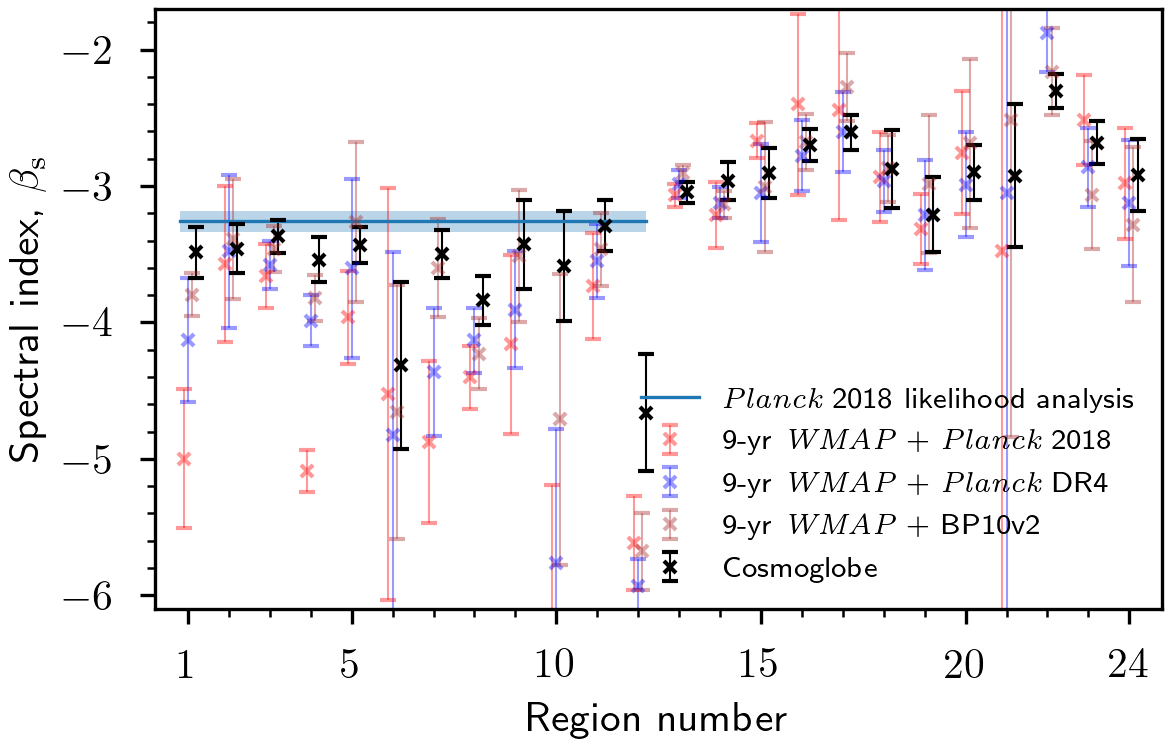
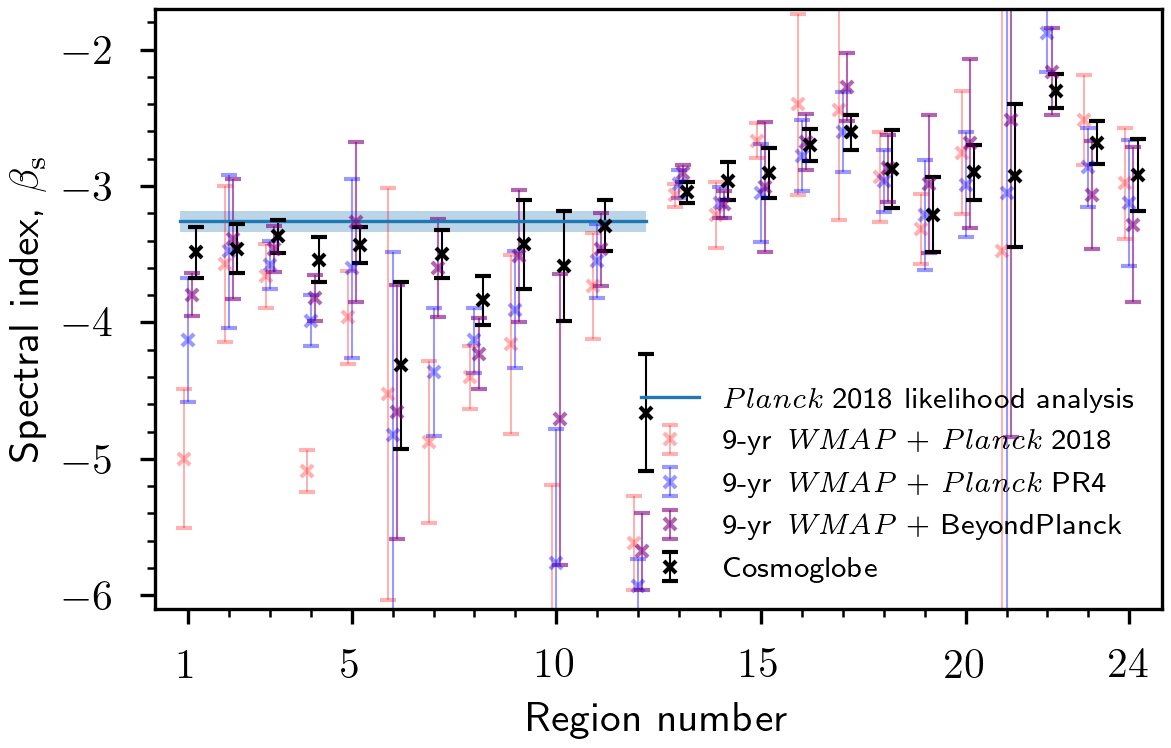
updated fig 7 and added text on tt-plot

diff --git a/WMAP/03_synch/main.tex b/WMAP/03_synch/main.tex
@@ -361,8 +361,7 @@ As the scale of instrumental residuals have been reduced to below the white nois
 	\includegraphics[width=0.9\textwidth]{figures/CG_DR1_residuals.pdf}
 	\end{center}
 	\caption{Residuals with respect to the \cosmoglobe\ DR1 sky model evaluated at $5^\circ$, with common colorscale of $\pm\,5\,\mathrm{\mu K}$. \cosmoglobe\ maps are labeled CG, \Planck\ 2018 and \npipe\ maps are labeled PR3 and PR4, and the legacy \WMAPnine\ maps are labeled \WMAP.
-
-	Remove PR3, reorganize a bit. Perhaps Stokes Q, then Stokes U
+	  Remove PR3, reorganize a bit. Perhaps Stokes Q, then Stokes U
 	}
 	\label{fig:cg_residuals}
 \end{figure*}
@@ -447,11 +446,11 @@ A fundamental challenge in spectral index estimation is due to the fact that eve
 
 In order to test for and mitigate these effects, we perform two approaches, a T-T plot analysis in Sect.~\ref{sec:tt_plot} and a Gibbs sampling analysis using \commanderone\ in Sect.~\ref{sec:comm1}. Sect.~\ref{sec:tt_plot} focuses on pairs of channels to better isolate potential unmodeled systematic effects, while Sect.~\ref{sec:comm1} uses all \WMAP\ and LFI channels plus \Planck\ 353\,GHz to maximize the joint statistical weight of all available data.
 
-\subsection{T-T plot method}
+\subsection{T-T plot analysis}
 \label{sec:tt_plot}
 
-As pointed out in \citet{wehus:2013}, unmodeled instrumental effects, including polarization angle mismatch between detectors and  elliptical beams,  can induce a polarization angle-dependent spectral index that is especially prominent in point sources.
-These effects can often be identified by performing analysis as a function of polarization angle. As both \WMAP\ and \Planck\ have asymmetric beam responses, this effect has long been noticed in the data, contaminating spectral index estimates. Performing a ``temperature-temperature'' (T-T) analysis as a function of polarizatoin angle, as discussed in Sect.~\ref{sec:tt_plot} \textcolor{red}{(this section?)}, shows the magnitude of this effect in the \cosmoglobe, \WMAPnine, and PR4 data.
+As pointed out in \citet{wehus:2013}, unmodeled instrumental effects, including polarization angle mismatch between detectors and  elliptical beams, can induce a polarization angle-dependent spectral index that is especially prominent in point sources.
+These effects can often be identified by performing analysis as a function of polarization angle. As both \WMAP\ and \Planck\ have asymmetric beam responses, this effect has long been noticed in the data, contaminating spectral index estimates. Performing a ``temperature-temperature'' (T-T) analysis as a function of polarization angle, shows the magnitude of this effect in the \cosmoglobe, \WMAPnine, and \Planck\ PR4 data.
 
 
 \begin{figure}
@@ -462,8 +461,10 @@ These effects can often be identified by performing analysis as a function of po
         \label{fig:regions}
 \end{figure}
 
+\subsubsection{Method}
+\label{sec:tt_plot_method}
 
-Following \citet{fuskeland2014} and \citet{fuskeland:2019}, we apply linear regression via the T-T (``temperature-temperature'') \textcolor{red}{<- repetition} plot method, in which spectral indices can be estimated over extended regions with approxiately constant spectral indices. In this approach, our data model for two frequencies is
+Following \citet{fuskeland2014} and \citet{fuskeland:2019}, we apply linear regression via the T-T plot method, in which spectral indices can be estimated over extended regions {\red with approxmiately constant spectral indices}. In this approach, our data model for two frequencies is
 \begin{equation}
 	\boldsymbol m_\nu = \boldsymbol m_{\nu_0}\left(\frac\nu{\nu_0}\right)^\beta+o_\nu+\boldsymbol n_\nu ,
 \end{equation}
@@ -474,10 +475,10 @@ where $\boldsymbol m_\nu$ is a spatially varying amplitude map, $\nu_0$ is the r
 	\Rightarrow
 	\beta_{s,p}=\frac{\ln(m_{\nu_1,p}/m_{\nu_2,p})}{\ln(\nu_1/\nu_2)}.
 \end{equation}
-The standard T-T plot method computes performs a linear regression $\boldsymbol m_{\nu_1}=a\boldsymbol m_{\nu_2}+b$, and associates $\beta_s$ with $\ln a/\ln(\nu_1/\nu_2)$. More care must be taken when the noise amplitudes in both maps are comparable, so we adopt the effective variance method of \citet{orear1982} as implemented by \citet{fuskeland2014}.
+The standard T-T plot method performs a linear regression $\boldsymbol m_{\nu_1}=a\boldsymbol m_{\nu_2}+b$, and associates $\beta_s$ with $\ln a/\ln(\nu_1/\nu_2)$. More care must be taken when the noise amplitudes in both maps are comparable, so we adopt the effective variance method of \citet{orear1982} as implemented by \citet{fuskeland2014}.
 
 For the T-T plot  analysis, we focus exclusively on bands between 23 and 33\,GHz. As in \citet{fuskeland2014}, we use the \WMAP\ \K\ and \Ka\ band Stokes $Q$ and $U$ parameter maps at $23$\,GHz and $33$\,GHz. The respective effective frequencies used are $22.45$\,GHz and $32.64$\,GHz. The maps originally at a \healpix\ pixelization of $N_\textrm{side}=512$ are downgraded to $N_\textrm{side}=64$ and smoothed to a common resolution of $1^\circ$ FWHM.
-The \Planck\ data products used are the $30$\,GHz Stokes $Q$ and $U$ maps, with an effective frequency of $28.4$\,GHz. {\red also mention \BP\ products, if we choose to show them.} The \cosmoglobe\ (PR4) products are natively at $N_\textrm{side}=512$ (1024), but as for the \WMAP\ products, the maps are downgraded to $N_\textrm{side}=64$ and smoothed to $1^\circ$ FWHM.  
+The \Planck\ data products used are the $30$\,GHz Stokes $Q$ and $U$ maps, with an effective frequency of $28.4$\,GHz. Both the \bp\ and \cosmoglobe\ products are natively at $N_\textrm{side}=512$, while for the \Planck\ PR4, it is 1024, but as for the \WMAP\ products, the maps are downgraded to $N_\textrm{side}=64$ and smoothed to $1^\circ$ FWHM.  
 
 
 
@@ -487,21 +488,34 @@ The \Planck\ data products used are the $30$\,GHz Stokes $Q$ and $U$ maps, with 
         \includegraphics[width=\linewidth]{figures/wmap23_plnpipe_ut_spectral_index_scatter_alphamean_1long.png}
         \includegraphics[width=\linewidth]{figures/wmap23_BP10v2_ut_spectral_index_scatter_alphamean_1long.png}
         \includegraphics[width=\linewidth]{figures/coswmap23_cos30_ut_spectral_index_scatter_alphamean_1long.png}
-        \caption{The spatial variation of the synchrotron spectral index, computed using T-T plot between the (from top to bottom) \WMAPnine\ 23\,GHz and \Planck\ 2018 30\,GHz, \WMAPnine\ 23\,GHz and \Planck\ DR4 30\,GHz, \WMAPnine\ 23\,GHz and \BP\ 30\,GHz, and \Cosmoglobe\ 23\,GHz and \Cosmoglobe\ 30\,GHz. The spectral index is inverse variance weighted over rotation angle, and in the \Cosmoglobe\ case also samples. {\red Fix style of maps. Also include uncertainty maps?}}
-        \label{fig:cos20_beta_map}
+        \caption{The spatial variation of the synchrotron spectral index, computed using T-T plot between the (from top to bottom) \WMAPnine\ 23\,GHz and \Planck\ 2018 30\,GHz, \WMAPnine\ 23\,GHz and \Planck\ DR4 30\,GHz, \WMAPnine\ 23\,GHz and \BP\ 30\,GHz, and \Cosmoglobe\ 23\,GHz and \Cosmoglobe\ 30\,GHz. The spectral index is inverse variance weighted over rotation angle, and in the \Cosmoglobe\ case also samples. {\red Fix style of maps.}}
+        \label{fig:TT_beta_maps}
 \end{figure}
 
-The uncertainty is calculated as the minimum of the uncertainties in each rotation angle, and region. As in the Fuskeland 2021 paper, an systematic uncertainty that takes into account the variation of $\beta$ over rotation angle; $[ \max(\beta_\alpha) - \min(\beta_\alpha) ] /2$ is added in quadrature to the statistical uncertainty.
-For the \Cosmoglobe\ analyses the standard deviation of the spectral indices for all samples is also added in quadrature to represent an additional systematic uncertainty.
-
-Much better propagation of uncertainties with a whole suite of maps.
+The uncertainty of the spectral indices is calculated as the minimum of the uncertainties in each rotation angle, and region. As in \citet{fuskeland:2019}, a systematic uncertainty that takes into account the variation of $\beta$ over rotation angle; $[ \max(\beta_\alpha) - \min(\beta_\alpha) ] /2$ is added in quadrature to the statistical uncertainty.
+For the \Cosmoglobe\ analyses we have a whole suite of maps represented by the individual samples instead of just one mean map. Here the standard deviation of the spectral indices of the samples is also added in quadrature to represent an additional systematic uncertainty. This enables us to have a better propagation of uncertainties from the maps to the final spectral indices.
 
 \begin{figure}
         \centering
         \includegraphics[width=\linewidth]{figures/cos30_region_beta_cosmoglobe_vs_wmap_all.png}
-        \caption{The synchrotron spectral index as a function of region number, computed using T-T plot between the 9-yr \WMAP\ 23\,GHz and \Planck\ 2018 30\,GHz (red), 9-yr \WMAP\ 23\,GHz and \Planck\ DR4 30\,GHz (blue), 9-yr \WMAP\ 23\,GHz and \BP\ 30\,GHz (brown), and \Cosmoglobe\ 23\,GHz and \Cosmoglobe\ 30\,GHz (black). The spectral index is inverse variance weighted over rotation angles, and samples. The horizontal line in the high latitude regions corresponds to the estimated spectral index values from the \Planck\ 2018 likelihood analysis. cite?? {\red [Figure is a bit crowded, will discuss what to to (either remove one dataset or clean up a bit using another style (color/markers, etc).]}}
+        \caption{The synchrotron spectral index as a function of region number, computed using T-T plot between the 9-yr \WMAP\ 23\,GHz and \Planck\ 2018 30\,GHz (red), 9-yr \WMAP\ 23\,GHz and \Planck\ DR4 30\,GHz (blue), 9-yr \WMAP\ 23\,GHz and \BP\ 30\,GHz (purple), and \Cosmoglobe\ 23\,GHz and \Cosmoglobe\ 30\,GHz (black). The spectral index is inverse variance weighted over rotation angles, and samples. The horizontal line in the high latitude regions corresponds to the estimated spectral index values from the \Planck\ 2018 likelihood analysis \citep{planck2016-l05}. }
         \label{fig:cos30_beta_region}
 \end{figure}
+
+\subsubsection{Results}
+\label{sec:tt_plot_results}
+
+We start by looking at the results from the T-T plot method applied on $K$-band (23\,GHz) and 30\,GHz maps. We apply the method to the 24 regions to see the spatial variation of the polarized synchrotron spectral index. The three top maps in Fig. \ref{fig:TT_beta_maps} shows the T-T plot method using \WMAPnine\ $K$-band and three incarnations of the \Planck\ 30\,GHz maps; the 2018 version, PR4 and \bp. The bottom map shows the results using the improved maps from the \cosmoglobe\ analysis; \cosmoglobe\ $K$-band and 30\,GHz. The spectral indices are inverse variance weighted over rotation angle, and in the \cosmoglobe\ case also samples. Some of the most bright point sources have been masked out using grey. We see an overall improvement in the results of the spectral index, from regions with clearly unphysical values in the top map represented by dark red and blue values, and then the colors gradually fade in the figures downwards. Note that the range in the plot is quite wide for spectral indices, and goes from -5 to -1. This improvement in the value of the spectral index, and therefore also the underlying data is especially prudent in the high galactic regions, but also region number 22 along the galactic plane has a very striking improvement.
+
+The same results are also shown in Fig. \ref{fig:cos30_beta_region}, here the spectral indices are plotted as a function of region number, from 1 to 24. The different datasets are shown in different colors, and with the same order as the four maps in Fig. \ref{fig:TT_beta_maps}. Here we have also included one sigma uncertainties as errorbars as described in Sect. \ref{sec:tt_plot_method}. Also present in this figure shown as a blue line is the estimated spectral index range for high galactic regions, in our case represented by regions 1-12, as forecasted by the likelihood analysis in \citet{planck2016-l05}, Figure 22. We see as the datasets evolve in time, they draw closer to this line.
+
+For a more detail study of each of the regions, we refer the reader to the Appendix, where we have shown the corresponding T-T scatterplots (Fig.\ref{fig:cos30_beta_bigscatter}) and the spectral index as a function of rotation angle (Fig.\ref{fig:cos30_beta_bigalpha}) for all 24 regions.
+
+As a second part of this T-T plot analysis we apply the method on K-band and Ka-band maps. For the \wmap\ data, this is previosly done in \citet{fuskeland2014}, so here we only present results using the new \cosmoglobe\ data. First, as a consistency check, in Fig.\ref{fig:cos30_xyplot} we plot the spectral indices for all 24 regions in a form of \cosmoglobe\ K/30\,GHz versus \cosmoglobe\ K/Ka. We see that for the regions in the north and south galactic spurs, and along the galactic plane (regions 13-24), there is a good agreement bewteen the spectral indices obtained by the two pairs of datasets. These are the regions with the highest signal to noise ratio.
+
+In Fig.\ref{fig:beta_map_K-Ka} the value of the spectral indices is shown for the 24 regions. We see here that the colors are even fainter than the \cosmoglobe\ K-band versus 30\,GHz values (the bottom figure in Fig. \ref{fig:TT_beta_maps}), meaning there are fewer outliers with respect to a standard value in the range around -3. This is especially visibly in the regions with lowest signal to noise, like regions 6, 8 and 12, at high latitude.
+
+{\red UF: Not sure we can talk about it like I do here, with ``right'' and ``wrong'' values of beta. But clearly, values above -2 and below -3.8 are unphysical, are they not, is this common knowledge? Might be rephrased a bit...}
 
 \begin{figure}
         \centering
@@ -512,6 +526,12 @@ The synchrotron spectral index computed using T-T plot with the \Cosmoglobe\ 23\
 \end{figure}
 
 
+\begin{figure}
+	\centering
+	\includegraphics[width=\linewidth]{figures/ut_spectral_index_scatter_alphamean_1.png}
+	\caption{The spatial variation of the synchrotron spectral index, computed using T-T plot between the \Cosmoglobe\ \WMAP\ \K- and \Ka-band. The spectral index is inverse variance weighted over rotation angle and samples. {\red Fix style of maps.}}
+        \label{fig:beta_map}
+\end{figure}
 
 
 %\begin{figure*}
@@ -534,8 +554,7 @@ The synchrotron spectral index computed using T-T plot with the \Cosmoglobe\ 23\
 
 
 
-We will also use Table 6, Figure (33)
-of Planck 2018 results IV Diffuse component separation
+%We will also use Table 6, Figure (33) of Planck 2018 results IV Diffuse component separation
 
 
 \subsection{Parametric component estimation}
@@ -556,10 +575,9 @@ At high Galactic latitudes (regions 1--12), there is good agreement between each
 \begin{figure}
 	\centering
 	\includegraphics[width=\columnwidth]{figures/compare_betas.pdf}
-	\caption{Spectral index from the \commanderone, T-T plots with \K/\Ka\ and \K/30, the QUIJOTE estimates, and the CLASS estimates
+	\caption{Spectral index from the \commanderone, T-T plots with \K /\Ka\ and \K/30, the QUIJOTE estimates, and the CLASS estimates
 	%
 	Remove TT K/30.
-
 	This is an improvment over the state-of-teh-art TT K/Ka
 	}
 	\label{fig:beta_comp}
@@ -649,34 +667,29 @@ A more persistent residual is found in the the Stokes $Q$ \Ka-band map. This fog
 
 
 
-\begin{figure}
-	\centering
-	\includegraphics[width=\linewidth]{figures/ut_spectral_index_scatter_alphamean_1.png}
-	\caption{The spatial variation of the synchrotron spectral index, computed using T-T plot between the \Cosmoglobe\ \WMAP\ \K- and \Ka-band. The spectral index is inverse variance weighted over rotation angle and samples. {\red Fix style of maps.}}
-        \label{fig:beta_map}
-\end{figure}
-
-\begin{figure}
-	\centering
-	\includegraphics[width=\linewidth]{figures/ut_uncert_scatter_alphamean_1.png}
-	\caption{The uncertainty of the synchrotron spectral index, computed using T-T plot between the \Cosmoglobe\ \WMAP\ \K- and \Ka-band. {\red Fix style of maps if we keep it.}}
-        \label{fig:uncert_map}
-\end{figure}
 
 
-\begin{figure}
-	\centering
-	\includegraphics[width=\linewidth]{figures/region_beta_cosmoglobe_vs_wmap.png}
-	\caption{The synchrotron spectral index, computed using T-T plot between the \Cosmoglobe\ \WMAP\ \K- and \Ka-band (black) compared to the spectral index using the original 9-yr \WMAP\ data (red) as a function of region number. The spectral index is inverse variance weighted over rotation angles, and in the \Cosmoglobe\ case also samples.}
-        \label{fig:beta_region}
-\end{figure}
+%\begin{figure}
+%	\centering
+%	\includegraphics[width=\linewidth]{figures/ut_uncert_scatter_alphamean_1.png}
+%	\caption{The uncertainty of the synchrotron spectral index, computed using T-T plot between the \Cosmoglobe\ \WMAP\ \K- and \Ka-band. {\red Fix style of maps if we keep it.}}
+%        \label{fig:uncert_map}
+%\end{figure}
 
-\begin{figure*}
-	\centering
-	%\includegraphics[width=\linewidth]{figures/ut_big_multialphaplot.eps}
-        \includegraphics[width=\linewidth]{figures/ut_big_multialphaplot.pdf}
-	\caption{The synchrotron spectral index as a function of rotation angle, computed using T-T plot between the \Cosmoglobe\ \WMAP\ \K- and \Ka-band (black) compared to the spectral index using the original 9-yr \WMAP\ data (red) for all regions. The horizontal lines indicates the corresponding inverse variance weighted values of the spectral indiex.}
-        \label{fig:beta_bigalpha}
-\end{figure*}
+
+%\begin{figure}
+%	\centering
+%	\includegraphics[width=\linewidth]{figures/region_beta_cosmoglobe_vs_wmap.png}
+%	\caption{The synchrotron spectral index, computed using T-T plot between the \Cosmoglobe\ \WMAP\ \K- and \Ka-band (black) compared to the spectral index using the original 9-yr \WMAP\ data (red) as a function of region number. The spectral index is inverse variance weighted over rotation angles, and in the \Cosmoglobe\ case also samples.}
+%        \label{fig:beta_region}
+%\end{figure}
+
+%\begin{figure*}
+%	\centering
+%	%\includegraphics[width=\linewidth]{figures/ut_big_multialphaplot.eps}
+%        \includegraphics[width=\linewidth]{figures/ut_big_multialphaplot.pdf}
+%	\caption{The synchrotron spectral index as a function of rotation angle, computed using T-T plot between the \Cosmoglobe\ \WMAP\ \K- and \Ka-band (black) compared to the spectral index using the original 9-yr \WMAP\ data (red) for all regions. The horizontal lines indicates the corresponding inverse variance weighted values of the spectral indiex.}
+%        \label{fig:beta_bigalpha}
+%\end{figure*}
 
 \end{document}
